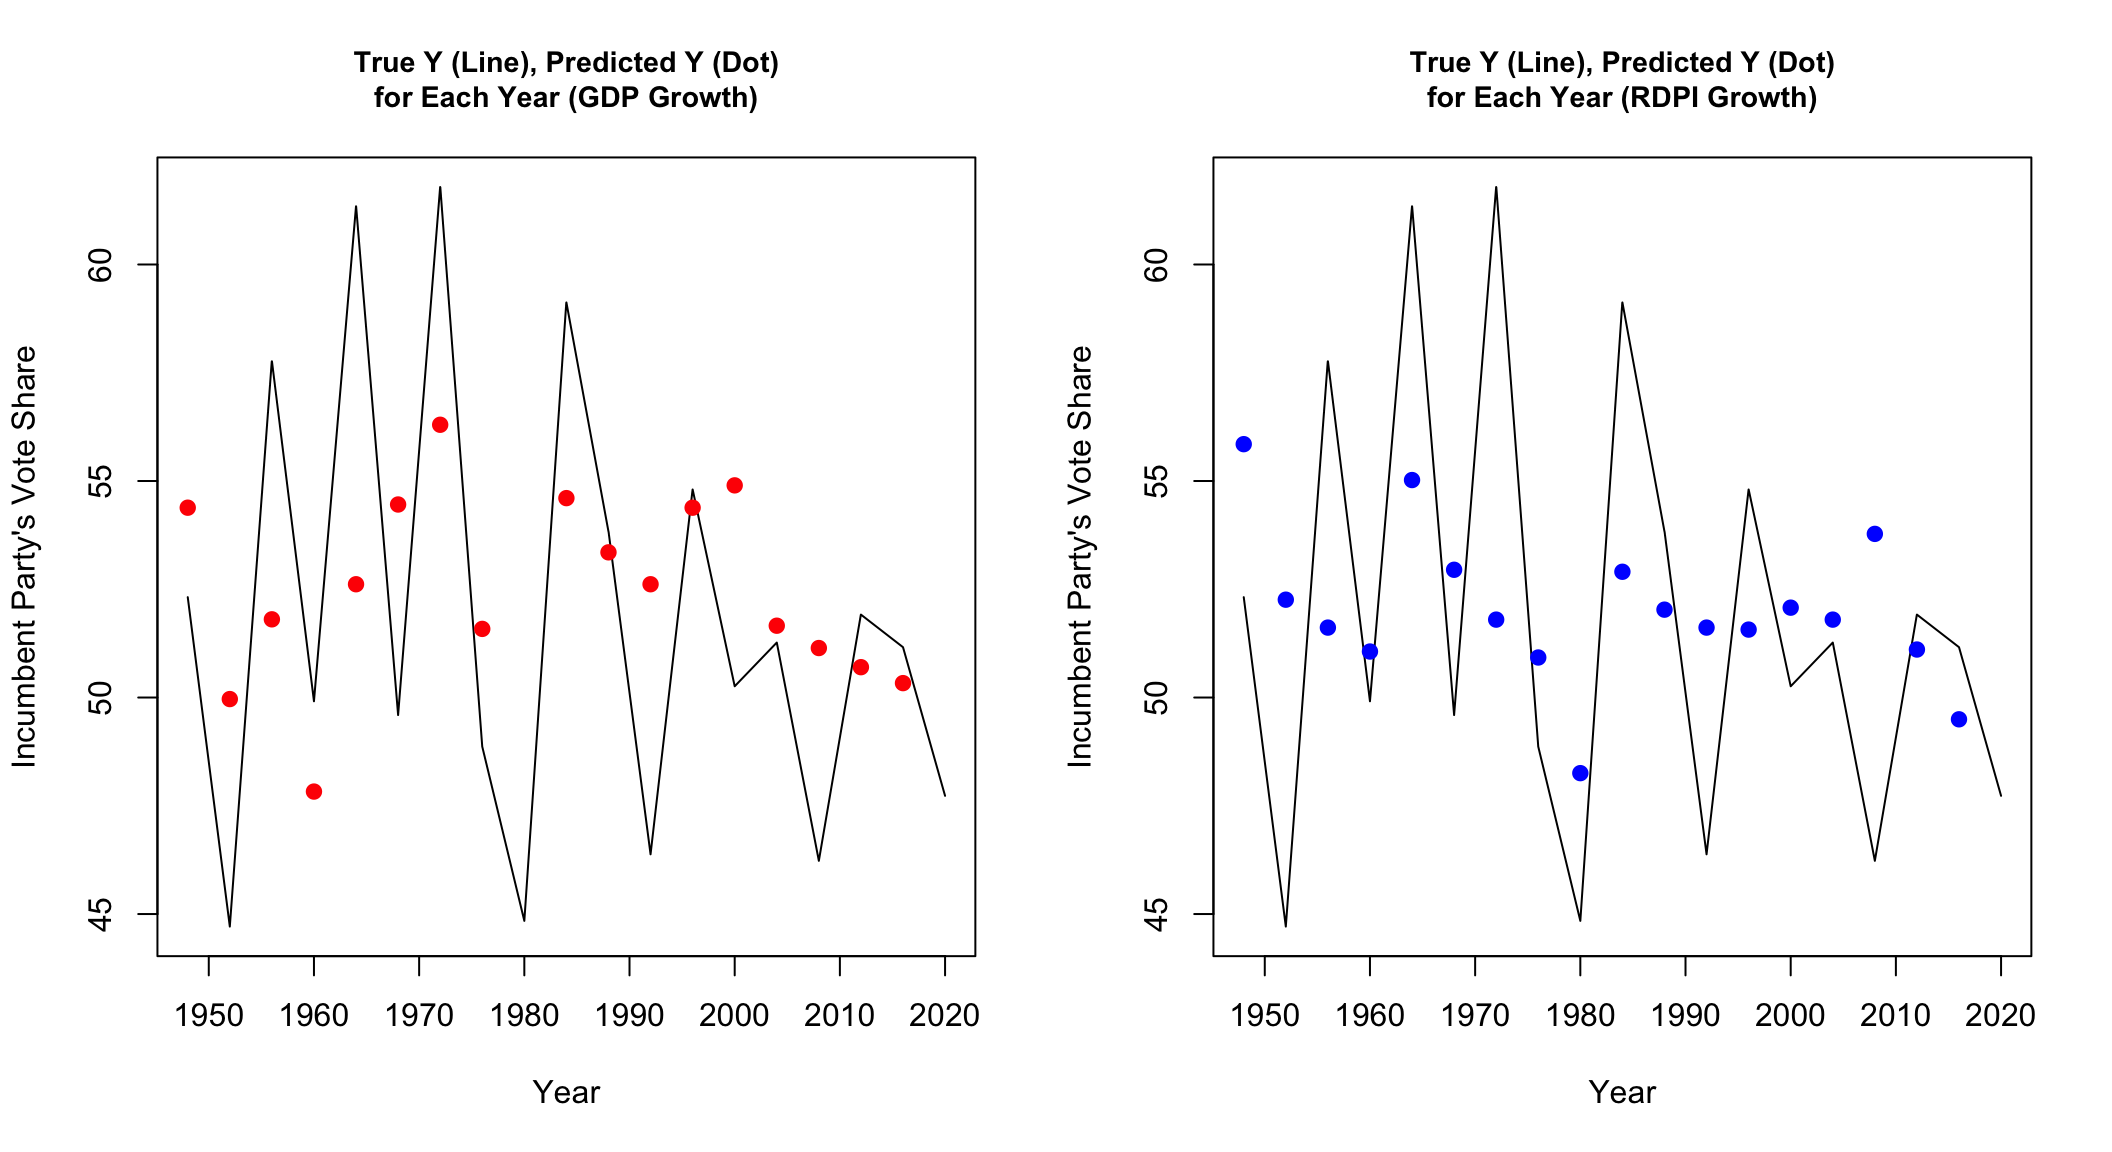
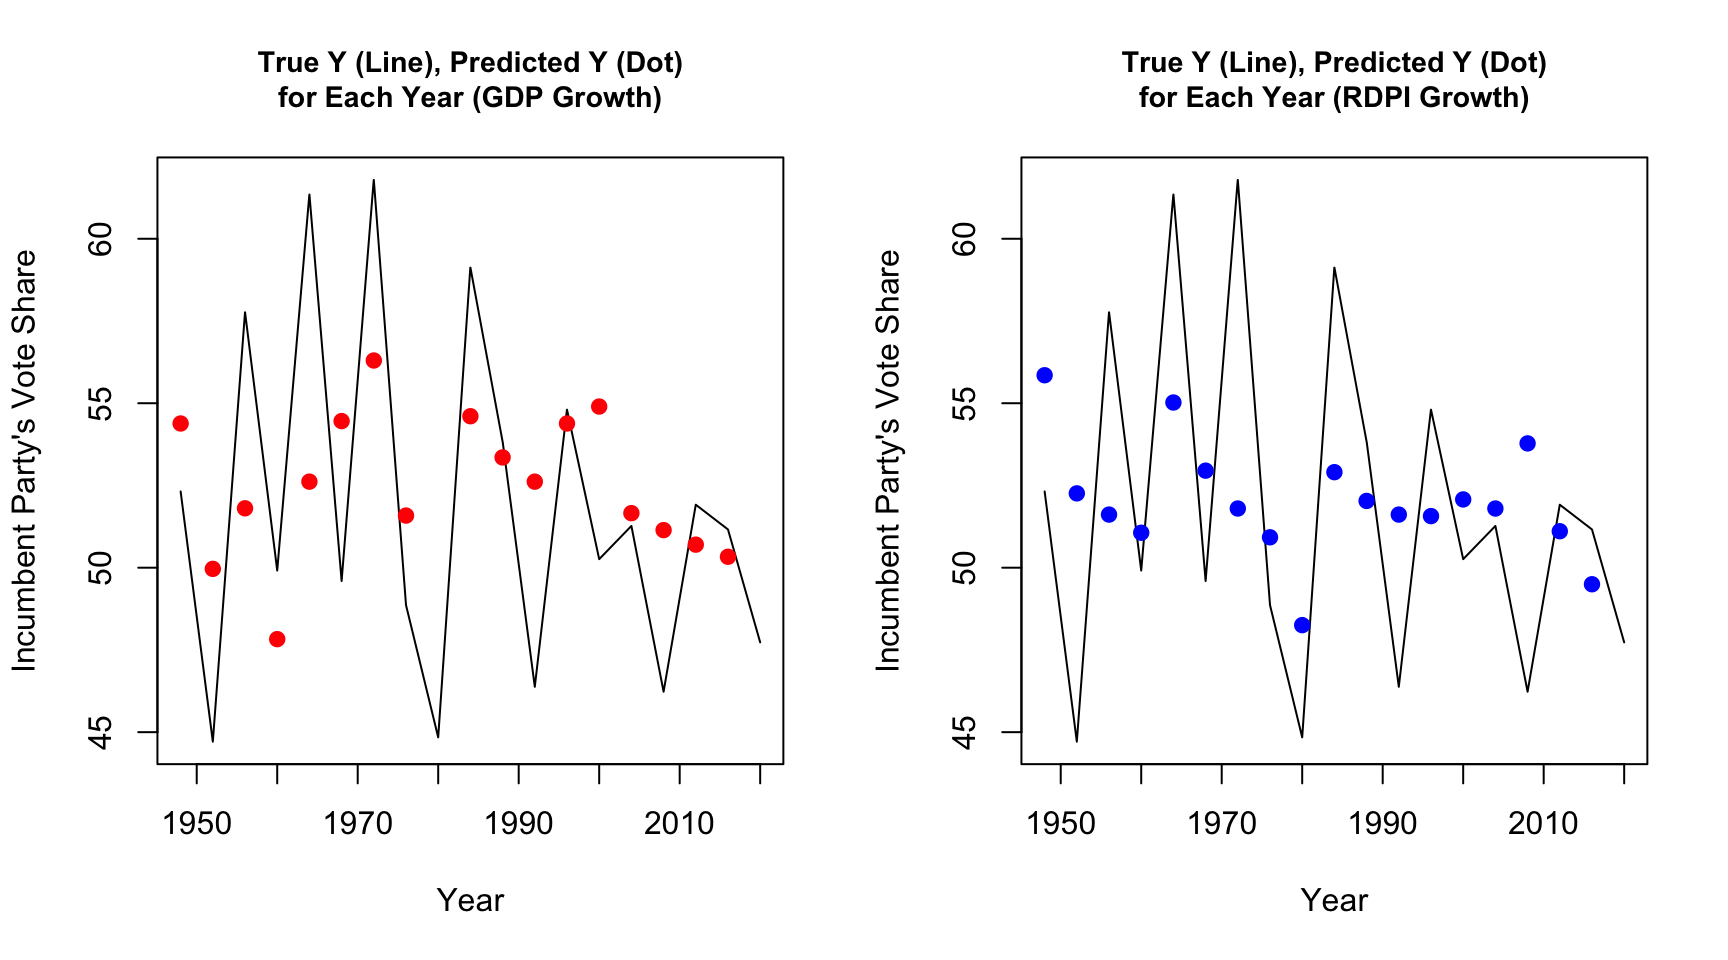
blog post 2 knit edits (redo)

diff --git a/public/post/2024-09-14-2-the-importance-of-the-economy/index.html b/public/post/2024-09-14-2-the-importance-of-the-economy/index.html
@@ -29,104 +29,97 @@
 </div>
 
 <main>
-<script src="https://menemshasolomon.github.io/election-blog/post/2024-09-14-2-the-importance-of-the-economy/index_files/kePrint/kePrint.js"></script>
-<link href="https://menemshasolomon.github.io/election-blog/post/2024-09-14-2-the-importance-of-the-economy/index_files/lightable/lightable.css" rel="stylesheet" />
-<script src="https://menemshasolomon.github.io/election-blog/post/2024-09-14-2-the-importance-of-the-economy/index_files/kePrint/kePrint.js"></script>
-<link href="https://menemshasolomon.github.io/election-blog/post/2024-09-14-2-the-importance-of-the-economy/index_files/lightable/lightable.css" rel="stylesheet" />
-<script src="https://menemshasolomon.github.io/election-blog/post/2024-09-14-2-the-importance-of-the-economy/index_files/kePrint/kePrint.js"></script>
-<link href="https://menemshasolomon.github.io/election-blog/post/2024-09-14-2-the-importance-of-the-economy/index_files/lightable/lightable.css" rel="stylesheet" />
-## How does the economy relate to election outcomes?
+<h2 id="how-does-the-economy-relate-to-election-outcomes">How does the economy relate to election outcomes?</h2>
 <p>Many scholars argue that most presidential elections are determined by political and economic conditions called fundamentals, which exist outside of campaign efforts by either party. Factors like <em>economic growth</em>, <em>disposable income</em>, <em>inflation</em>, and the <em>cost of living</em>, which are often economic circumstances of the previous administration, are found to be highly correlated with election outcomes. This phenomenon is known as <strong>retrospective economic voting</strong>, wherein a voter makes choices based on the incumbent&rsquo;s past performance, with a specific focus on the economy <a href="https://hollis.harvard.edu/permalink/f/1s5nto6/01HVD_ALMA512397392810003941">(Achen and Bartels, 2017)</a>.</p>
 <p>To evaluate this correlation it is important to look at the relationship between economic indicators — represented here by gross domestic product growth as well as real disposable personal income growth — and two-party vote. In doing so, I will be focusing on <strong>economic data from quarter 2</strong>, the financial reporting quarter right before the election. This echoes the assumption embedded within retrospective voting that a vast majority of American voters only begin paying attention to the election in the months leading up to November, <em>rewarding or punishing incumbent candidates and/or parties based on recent economic conditions</em> <a href="https://hollis.harvard.edu/permalink/f/1s5nto6/01HVD_ALMA512397392810003941">(Achen and Bartels, 2017)</a>. Furthermore, I will use both GDP and RDPI to begin investigating the question of whether or not American voters pay attention to general economic trends, or merely the money in their wallets at the time of the election.</p>
 <img src="https://menemshasolomon.github.io/election-blog/post/2024-09-14-2-the-importance-of-the-economy/index_files/figure-html/unnamed-chunk-1-1.png" width="1152" />
 <p>From these plots it is somewhat difficult to discern whether or not a correlation exists between the two second quarter economic indicators plotted above — GDP growth and RDPI growth — and the Incumbent Party&rsquo;s national popular vote share. Indeed, the blue bivariate regression line on each plot paints a better picture of the data, yet one which is still difficult to interpret without more information. One thing that is easy to discern, however, is that for both indicators, the year <strong>2020 is an obvious outlier in the data</strong>. Due to the unique nature of the COVID-19 pandemic and the subsequent recession it caused, in the quarter preceding the 2020 election, unemployment remained high while economic stimulus and back-to-work policies allowed for GDP growth and RDPI growth to bounce back rapidly <a href="https://www.npr.org/2020/07/09/889080504/the-economy-may-be-losing-its-impact-on-presidential-elections">(NPR News)</a>. Since this moment was so unique and its data so different than any other election year, <em>2020 will be excluded in further analysis and prediction</em>.</p>
 <p>The table below better outlines the bivariate regression relationship between the economic indicators plotted above and the national popular vote of the incumbent party from 1948 to 2016.</p>
-<table class="table table-striped" style="width: auto !important; margin-left: auto; margin-right: auto;">
-<caption><span id="tab:unnamed-chunk-2"></span>Table 1: (\#tab:unnamed-chunk-2)Bivariate Regression Models</caption>
- <thead>
-  <tr>
-   <th style="text-align:left;"> Variable (Measured in Q2) </th>
-   <th style="text-align:right;"> Coefficient </th>
-   <th style="text-align:right;"> R-squared </th>
-   <th style="text-align:left;"> Significant at 20% </th>
-   <th style="text-align:left;"> Significant at 5% </th>
-  </tr>
- </thead>
-<tbody>
-  <tr>
-   <td style="text-align:left;"> GDP Growth </td>
-   <td style="text-align:right;"> 0.7365757 </td>
-   <td style="text-align:right;"> 0.3248066 </td>
-   <td style="text-align:left;"> Yes </td>
-   <td style="text-align:left;"> Yes </td>
-  </tr>
-  <tr>
-   <td style="text-align:left;"> RDPI Growth </td>
-   <td style="text-align:right;"> 0.4604327 </td>
-   <td style="text-align:right;"> 0.1114869 </td>
-   <td style="text-align:left;"> Yes </td>
-   <td style="text-align:left;"> No </td>
-  </tr>
-</tbody>
+<p><strong>Bivariate Regression Models</strong></p>
+<table>
+  <thead>
+      <tr>
+          <th style="text-align: left">Variable (Measured in Q2)</th>
+          <th style="text-align: right">Coefficient</th>
+          <th style="text-align: right">R-squared</th>
+          <th style="text-align: left">Significant at 20%</th>
+          <th style="text-align: left">Significant at 5%</th>
+      </tr>
+  </thead>
+  <tbody>
+      <tr>
+          <td style="text-align: left">GDP Growth</td>
+          <td style="text-align: right">0.7365757</td>
+          <td style="text-align: right">0.3248066</td>
+          <td style="text-align: left">Yes</td>
+          <td style="text-align: left">Yes</td>
+      </tr>
+      <tr>
+          <td style="text-align: left">RDPI Growth</td>
+          <td style="text-align: right">0.4604327</td>
+          <td style="text-align: right">0.1114869</td>
+          <td style="text-align: left">Yes</td>
+          <td style="text-align: left">No</td>
+      </tr>
+  </tbody>
 </table>
 <p>In analyzing the differences between these three relationships, it is first important to understand the statistical significance. The only variable significant at the 5% level is GDP growth, indicating that GDP growth is a significant predictor of election outcomes. The growth in real disposable personal income is also a significant predictor, but only at the 20% level, leaving a high likelihood of type-1 error. Furthermore, based on the R^2 values, while <em>GDP growth in Q2 can explain around 32% of the trend in incumbent party vote share</em>, RDPI growth can only explain 11%. This point is especially interesting when attempting to better understand the rationality of American voters. Indeed, an area for further investigation should be whether the difference in explanatory capabilities is due to differences in how american experience changes in general GDP vs. their disposable income. Finally, the coefficients of both variables, which indicate the effect of a one percent increase in growth on incumbent vote share, show that <strong>while GDP growth of 1% increases incumbent vote share by 0.74 percentage points, RDPI growth only has a 0.46 percentage point effect.</strong></p>
 <h2 id="how-should-these-models-be-evaluated-for-accuracy">How should these models be evaluated for accuracy?</h2>
 <p>These regression models are not always accurate predictors as they can only explain a small amount of variance in the data. To test the efficacy of both models, both in-sample and out-of-sample models should be used.</p>
 <p><strong>Using in-sample fit to test predictive power:</strong></p>
-<img src="https://menemshasolomon.github.io/election-blog/post/2024-09-14-2-the-importance-of-the-economy/index_files/figure-html/unnamed-chunk-3-1.png" width="1056" />
+<img src="https://menemshasolomon.github.io/election-blog/post/2024-09-14-2-the-importance-of-the-economy/index_files/figure-html/unnamed-chunk-3-1.png" width="864" />
 <p>The graphics above display the true incumbent vote share (line) as well as the prediction generated by the model (points) using both GDP and RDPI as predictors. As the graphic makes apparent, the model is rarely able to closely predict the actual vote share; however, it often accurately predicts whether or not the popular vote will lean toward the incumbent. This test is only able to tell part of the story in terms of the model&rsquo;s accuracy, thus it is important to also use out-of-sample testing methods.</p>
 <p>The cross-validation method uses a random half of the existing data to train a model which then predicts for another half. By running this test multiple times, it is possible to discern an average estimate of the overall predictive power of both models.</p>
 <p><strong>Using cross validation to test predictive power:</strong></p>
-<table class="table table-striped" style="width: auto !important; margin-left: auto; margin-right: auto;">
-<caption><span id="tab:unnamed-chunk-4"></span>Table 3: (\#tab:unnamed-chunk-4)Mean Error in the Predictive Models According to Cross Validation</caption>
- <thead>
-  <tr>
-   <th style="text-align:left;"> Variable (Measured in Q2) </th>
-   <th style="text-align:right;"> Mean Error </th>
-   <th style="text-align:right;"> Standard Deviation of Error </th>
-  </tr>
- </thead>
-<tbody>
-  <tr>
-   <td style="text-align:left;"> GDP Growth </td>
-   <td style="text-align:right;"> -0.1298106 </td>
-   <td style="text-align:right;"> 5.004247 </td>
-  </tr>
-  <tr>
-   <td style="text-align:left;"> RDPI Growth </td>
-   <td style="text-align:right;"> 0.3315608 </td>
-   <td style="text-align:right;"> 5.824482 </td>
-  </tr>
-</tbody>
+<table>
+  <thead>
+      <tr>
+          <th style="text-align: left">Variable (Measured in Q2)</th>
+          <th style="text-align: right">Mean Error</th>
+          <th style="text-align: right">Standard Deviation of Error</th>
+      </tr>
+  </thead>
+  <tbody>
+      <tr>
+          <td style="text-align: left">GDP Growth</td>
+          <td style="text-align: right">-0.2715071</td>
+          <td style="text-align: right">4.970694</td>
+      </tr>
+      <tr>
+          <td style="text-align: left">RDPI Growth</td>
+          <td style="text-align: right">0.0814839</td>
+          <td style="text-align: right">5.783921</td>
+      </tr>
+  </tbody>
 </table>
 <p>As displayed by the table above, the cross-validation test displays that the magnitude of the error generated by using GDP Growth and RDPI growth models to predict incumbent vote share are quite small. Though GDP growth tends to lead to under prediction and RDPI growth to over prediction, both are by less than one percentage point. The standard deviations indicated above do, however, indicate high variability in these results, which is important in interpreting the importance of these predictive models below.</p>
 <h2 id="using-these-models-how-can-the-economy-be-used-to-predict-the-outcome-of-the-2024-election">Using these models, how can the economy be used to predict the outcome of the 2024 election?</h2>
 <p>Using the model which has been evaluated at length above to be somewhat effective in determining popular vote
 as well as 2024 Q2 economic data on GDP and RDPI growth, it is possible to generate a prediction for the 2024 incumbent vote share. The results of this model are displayed below.</p>
-<table class="table table-striped" style="width: auto !important; margin-left: auto; margin-right: auto;">
-<caption><span id="tab:unnamed-chunk-5"></span>Table 5: (\#tab:unnamed-chunk-5)2024 Election Prediction Model</caption>
- <thead>
-  <tr>
-   <th style="text-align:left;"> Variable </th>
-   <th style="text-align:right;"> Predicted Value </th>
-   <th style="text-align:right;"> Lower Bound (80% PI) </th>
-   <th style="text-align:right;"> Upper Bound (80% PI) </th>
-  </tr>
- </thead>
-<tbody>
-  <tr>
-   <td style="text-align:left;"> GDP Growth </td>
-   <td style="text-align:right;"> 51.58486 </td>
-   <td style="text-align:right;"> 45.45250 </td>
-   <td style="text-align:right;"> 57.71722 </td>
-  </tr>
-  <tr>
-   <td style="text-align:left;"> RDPI Growth </td>
-   <td style="text-align:right;"> 50.32576 </td>
-   <td style="text-align:right;"> 43.11837 </td>
-   <td style="text-align:right;"> 57.53316 </td>
-  </tr>
-</tbody>
+<p><strong>2024 Election Prediction Model</strong></p>
+<table>
+  <thead>
+      <tr>
+          <th style="text-align: left">Variable</th>
+          <th style="text-align: right">Predicted Value</th>
+          <th style="text-align: right">Lower Bound (80% PI)</th>
+          <th style="text-align: right">Upper Bound (80% PI)</th>
+      </tr>
+  </thead>
+  <tbody>
+      <tr>
+          <td style="text-align: left">GDP Growth</td>
+          <td style="text-align: right">51.58486</td>
+          <td style="text-align: right">45.45250</td>
+          <td style="text-align: right">57.71722</td>
+      </tr>
+      <tr>
+          <td style="text-align: left">RDPI Growth</td>
+          <td style="text-align: right">50.32576</td>
+          <td style="text-align: right">43.11837</td>
+          <td style="text-align: right">57.53316</td>
+      </tr>
+  </tbody>
 </table>
 <p><strong>Using GDP growth as a predictor, the above model estimates a 51.58% two-party popular vote share for Vice President Harris.</strong> To make this prediction, a prediction interval of 80% was used (as is common for election prediction models). Using this interval means that there is a 20% chance the real election outcome does not fall within the upper and lower bounds noted above. <strong>Using RDPI growth as a predictor, the model estimates a 50.33% two-party popular vote share for Vice President Harris, once again giving her the majority.</strong> The same prediction interval of 80% once again means that there is only an 80% likelihood the real value lies within the 43% to 57% range shown above. These results are incredibly similar, most likely indicating a strong correlation between GDP growth and RDPI growth, though definitely an interesting area for further exploration.</p>
 <h2 id="notes">Notes</h2>
